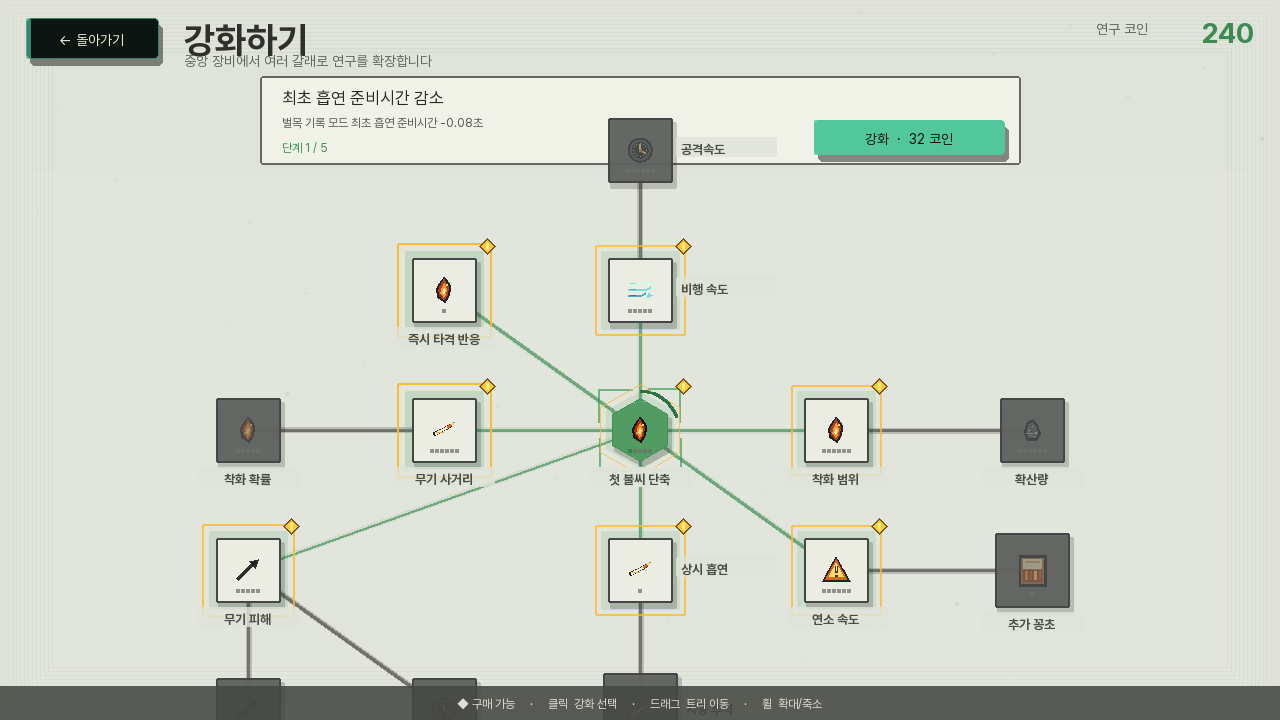
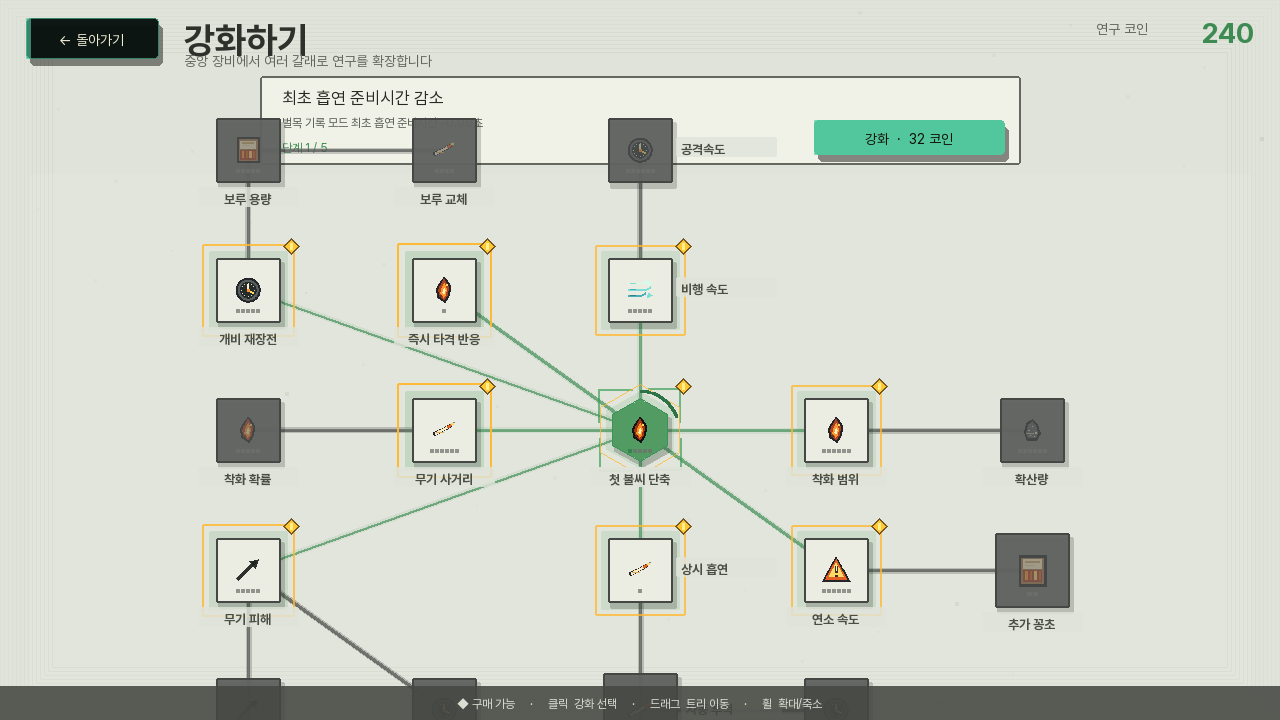
담배 탄약 관리 갈래 검증과 인사기록부 동기화
startSmoking에 상수로 박혀 있던 세 벽(개비 재장전 하한 0.75초, 보루 재장전
하한 2.4초, 보루 크기 20개비)을 여는 노드가 실제 런타임까지 닿는지 검사한다.
하한에도 배수를 걸지 않으면 2~3단계부터 노드가 아무 일도 하지 않으므로,
일부러 하한에 걸린 상태를 만들어 그 하한이 함께 내려가는지 확인한다.

- verify_character_traits: 불 갈래 노드 수 26 -> 30, 탄약 3종과 자동 투척
  주기의 효과 합산 및 startSmoking/updateFire 수치를 직접 검사
- character_dossier: 개비 재장전 · 보루 용량 · 보루 교체 · 자동 투척 주기
  추가, 추가 꽁초 상한 1 -> 2 반영
- 연구판 프리뷰 재생성 (새 갈래는 루트 왼쪽 위, 겹침 없음)

diff --git a/docs/character_dossier.html b/docs/character_dossier.html
@@ -508,12 +508,15 @@ const TRAITS = {
       {id:"fire_score_alwayssmoke",name:"상시 흡연",short:"상시 흡연",desc:"근접 도끼질이나 폭죽 공격 중에도 담배 재장전이 계속됩니다.",max:1,costs:[200],requires:[["fire_score_prewarm",1]]},
       {id:"fire_score_filter",name:"무기 사거리 상승",short:"무기 사거리",desc:"무기 사거리 +16",max:6,costs:[18,32,50,74,104,142],requires:[["fire_score_prewarm",1]]},
       {id:"fire_score_lighter",name:"착화 범위 상승",short:"착화 범위",desc:"꽁초가 불씨를 옮기는 착화 반경 +12",max:6,costs:[18,32,50,74,104,142],requires:[["fire_score_prewarm",1]]},
+      {id:"fire_score_reload",name:"개비 재장전 속도 상승",short:"개비 재장전",desc:"담배 한 개비를 무는 재장전 시간이 단계마다 8% 단축됩니다. (기본 1.25초, 하한 0.75초 — 하한도 함께 내려갑니다)",max:5,costs:[20,34,54,78,108],requires:[["fire_score_prewarm",1]]},
+      {id:"fire_score_carton_size",name:"보루 개비 수 증가",short:"보루 용량",desc:"보루 하나에 담기는 담배가 단계마다 6개비 늘어납니다. 보루를 다 피울 때만 오는 긴 재장전이 그만큼 드물어집니다. (기본 20개비)",max:5,costs:[24,42,64,92,126],requires:[["fire_score_reload",2]]},
+      {id:"fire_score_carton_reload",name:"보루 교체 속도 상승",short:"보루 교체",desc:"보루를 다 피우고 새 보루를 뜯는 긴 재장전이 단계마다 12% 단축됩니다. (기본 4.4초, 하한 2.4초 — 하한도 함께 내려갑니다)",max:4,costs:[30,52,80,116],requires:[["fire_score_carton_size",2]]},
       {id:"fire_score_spark",name:"꽁초 착화 확률 상승",short:"착화 확률",desc:"꽁초의 착화 성공 확률 +1.2%p",max:5,costs:[18,32,50,74,104],requires:[["fire_score_filter",2]]},
       {id:"fire_score_launch",name:"꽁초 비행 속도 상승",short:"비행 속도",desc:"꽁초 비행 속도 +7%",max:5,costs:[18,32,50,74,104],requires:[["fire_score_filter",1]]},
       {id:"fire_score_ash",name:"불 확산량 상승",short:"확산량",desc:"불붙은 나무가 옮겨붙이는 기대 그루 +0.17 (만렙 1.45그루 — 1.00을 넘으면 산불이 스스로 번집니다)",max:6,costs:[18,32,50,74,104,142],requires:[["fire_score_lighter",2]]},
       {id:"fire_score_drag",name:"무기 공격속도 상승",short:"공격속도",desc:"무기 공격속도 +4%",max:6,costs:[18,32,50,74,104,142],requires:[["fire_score_spark",2],["fire_score_launch",2]]},
       {id:"fire_score_heat",name:"연소속도 상승",short:"연소 속도",desc:"불이 나무를 태우는 주기 6% 단축 (기본 1초마다 4피해, 연소 3.6초)",max:6,costs:[18,32,50,74,104,142],requires:[["fire_score_launch",2],["fire_score_ash",2]]},
-      {id:"fire_score_stock",name:"추가 꽁초 투척",short:"추가 꽁초",desc:"투척할 때 추가 꽁초 +1",max:1,costs:[180],requires:[["fire_score_drag",3],["fire_score_heat",3]],capstone:true},
+      {id:"fire_score_stock",name:"추가 꽁초 투척",short:"추가 꽁초",desc:"투척할 때 추가 꽁초 +1 (자동 투척에도 그대로 적용됩니다)",max:2,costs:[180,310],requires:[["fire_score_drag",3],["fire_score_heat",3]],capstone:true},
       {id:"fire_score_edge",name:"나무 피해 상승",short:"무기 피해",desc:"무기가 나무에 주는 피해 +1 (불의 타격 피해에도 더해집니다)",max:5,costs:[26,46,72,104,142],requires:[["fire_score_prewarm",1]]},
       {id:"fire_score_axe_area",name:"도끼 타격 범위 상승",short:"도끼 범위",desc:"도끼의 조준 포착 범위와 주변 타격 범위 +9",max:5,costs:[18,32,50,74,104],requires:[["fire_score_edge",1]]},
       {id:"fire_score_axe_speed",name:"도끼 공격속도 상승",short:"도끼 공속",desc:"도끼 연속 타격 속도 +7%",max:5,costs:[18,32,50,74,104],requires:[["fire_score_edge",1]]},
@@ -523,6 +526,7 @@ const TRAITS = {
       {id:"fire_score_axe_chain",name:"연속 벌목",short:"연속 벌목",desc:"나무를 쓰러뜨리면 단계마다 18% 확률로 도끼 재사용 대기시간이 즉시 초기화됩니다.",max:3,costs:[90,150,230],requires:[["fire_score_axe_execute",3]]},
       {id:"fire_score_axe_crew",name:"도끼 원숭이 해금",short:"도끼 원숭이",desc:"내 도끼 빌드의 절반 성능을 물려받은 졸업 원숭이 1마리가 자동 벌목합니다.",max:1,costs:[800],requires:[["fire_score_axe_shock",3],["fire_score_axe_chain",3]],capstone:true},
       {id:"fire_score_autothrow",name:"담배 자동 투척",short:"자동 투척",desc:"근접 도끼질이나 폭죽 공격 중에도 2.6초마다 꽁초가 자동으로 날아갑니다.",max:1,costs:[240],requires:[["fire_score_alwayssmoke",1]],capstone:true},
+      {id:"fire_score_autothrow_rate",name:"자동 투척 주기 단축",short:"자동 투척 주기",desc:"자동 투척 간격이 단계마다 9% 짧아집니다. (기본 2.6초)",max:4,costs:[48,80,124,180],requires:[["fire_score_autothrow",1]]},
       {id:"fire_score_rocket_unlock",name:"폭죽 로켓 해금",short:"폭죽 해금",desc:"근접 대상이 없을 때의 원거리 공격이 폭죽 로켓으로 자동 전환됩니다.",max:1,costs:[260],requires:[["fire_score_autothrow",1]],capstone:true},
       {id:"fire_score_rocket_radius",name:"폭죽 폭발 반경 상승",short:"폭발 반경",desc:"폭죽 로켓의 폭발 반경 +16",max:5,costs:[18,32,50,74,104],requires:[["fire_score_rocket_unlock",1]]},
       {id:"fire_score_rocket_damage",name:"폭죽 폭발 피해 상승",short:"폭발 피해",desc:"폭죽 폭발이 나무에 주는 피해 +2",max:5,costs:[18,32,50,74,104],requires:[["fire_score_rocket_unlock",1]]},
